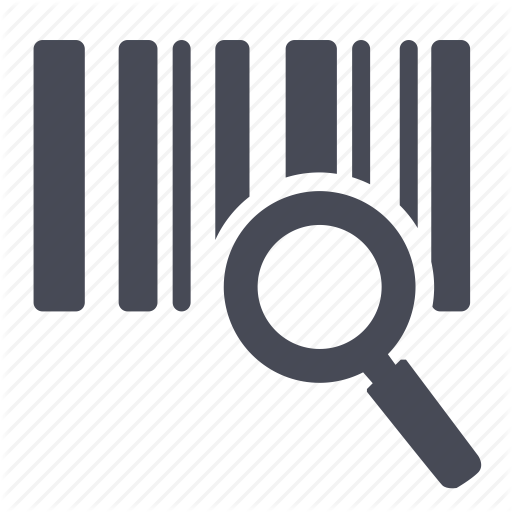
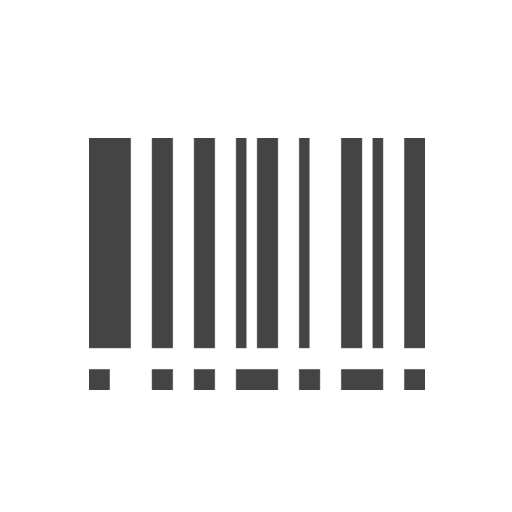
arreglos en interfaz de usuario

diff --git a/www/css/style.css b/www/css/style.css
@@ -22,13 +22,14 @@ body{
 	margin-right: 10px;
 }
 .navbar{
-	background-color: #199cc6;
-    border-color: #1eb5e6;
+	/*background-color: #199cc6;*/
+    background: linear-gradient(#003F5E,#2389BB); /* Standard syntax */
     font-size: 30px;
     line-height: 1;
     margin-top: 0px;
-    margin-bottom:20px;
+    margin-bottom:0px;
     color:white;
+    border: 0px;
 }
 .navbar-text-menu {
     margin-top: 26px!important;;
@@ -37,8 +38,8 @@ body{
 	color:white;	   
 }
 .navbar img{
-	width: 55px;
-	height: 55px;
+	width: 57px;
+	height: 57px;
 }
 
 .navbar.navbar2 img{
@@ -152,3 +153,84 @@ body{
 	float: right;
 	top: -10px;
 }
+
+/* USER PROFILE PAGE */
+ .card {
+    padding: 30px;
+    background-color: rgba(214, 224, 226, 0.2);
+    -webkit-border-top-left-radius:5px;
+    -moz-border-top-left-radius:5px;
+    border-top-left-radius:5px;
+    -webkit-border-top-right-radius:5px;
+    -moz-border-top-right-radius:5px;
+    border-top-right-radius:5px;
+    -webkit-box-sizing: border-box;
+    -moz-box-sizing: border-box;
+    box-sizing: border-box;
+}
+.card.hovercard {
+    position: relative;
+    padding-top: 0;
+    overflow: hidden;
+    text-align: center;
+    background-color: #fff;
+    background-color: rgba(255, 255, 255, 1);
+}
+.card.hovercard .card-background {
+    height: 200px;
+}
+.card-background img {
+    -webkit-filter: blur(25px);
+    -moz-filter: blur(25px);
+    -o-filter: blur(25px);
+    -ms-filter: blur(25px);
+    filter: blur(25px);
+    margin-left: -100px;
+    margin-top: -200px;
+    min-width: 130%;
+}
+.card.hovercard .useravatar {
+    position: absolute;
+    top: 25px;
+    left: 0;
+    right: 0;
+}
+.card.hovercard .useravatar img {
+    width: 150px;
+    height: 150px;
+    -webkit-border-radius: 50%;
+    -moz-border-radius: 50%;
+    border-radius: 50%;
+    border: 5px solid rgba(255, 255, 255, 0.5);
+}
+.card.hovercard .card-info {
+    position: absolute;
+    bottom: 14px;
+    left: 0;
+    right: 0;
+}
+.card.hovercard .card-info .card-title {
+    padding: 0px 5px;
+    font-size: 23px;
+    line-height: 1;
+    color: #444;
+    background-color: rgba(255, 255, 255, 0.3);
+    -webkit-border-radius: 4px;
+    -moz-border-radius: 4px;
+    border-radius: 4px;
+}
+.card.hovercard .card-info {
+    overflow: hidden;
+    font-size: 12px;
+    line-height: 20px;
+    color: #737373;
+    text-overflow: ellipsis;
+}
+.card.hovercard .bottom {
+    padding: 0 20px;
+    margin-bottom: 17px;
+}
+.btn-pref .btn {
+    -webkit-border-radius:0 !important;
+}
+

diff --git a/www/perfil.html b/www/perfil.html
@@ -16,7 +16,7 @@
     <div class="container-fluid">
       <ul class="nav navbar-nav">
       <li><a class="back-button" onClick="go_back()">
-          <span class="back-button-glyphicon glyphicon glyphicon-arrow-left aria-hidden="true"></span></a></li>
+          <span class="back-button-glyphicon glyphicon glyphicon-arrow-left" aria-hidden="true"></span></a></li>
       <li><p class="navbar-text">Mi Perfil</p></li>
       </ul>
     </div>
@@ -25,10 +25,29 @@
   <div id="alert"></div>
   
 
-  <div class="perfil-img">
-  	<img id="profilePicture" alt="..." class="img-circle">
-  	<a href="" data-toggle="modal" data-target="#foto-perfil-modal" ><span class="glyphicon glyphicon-camera aria-hidden="true"></span></a>
-  </div>
+<!-- lo nuevo -->
+<div class="card hovercard">
+        <div class="card-background">
+            <img id="profilePicture" class="card-bkimg" alt="...">
+            <!-- http://lorempixel.com/850/280/people/9/ -->
+        </div>
+        <div class="useravatar">
+            <img alt="..." id="profilePicture2">
+            <a href="" data-toggle="modal" data-target="#foto-perfil-modal" >
+    </a> 
+        </div>
+
+        <div class="card-info"> <span class="card-title">Nombre del weon</span>
+
+        </div>
+    </div>
+<!-- lo otro -->
+
+ <a href="" data-toggle="modal" data-target="#foto-perfil-modal" >
+      <span class="glyphicon glyphicon-camera" style="position: absolute;top: 215px;left: 287px;font-size: 40px;" aria-hidden="true">
+      </span>
+    </a>
+ 
 
   <!-- <div class="intolerance-wrap"> -->
 

diff --git a/www/html-injections/main-navbar.js b/www/html-injections/main-navbar.js
@@ -1,11 +1,11 @@
 $(function(){
   $("#main-navbar").html('\
     <nav class="navbar" style="margin-bottom: 0;">\
-      <div class="container-fluid">\
+      <div class="container-fluid" style="padding-left: 2px;">\
         <ul class="nav navbar-nav" style="margin: 0;">\
         <li>\
-          <a href="perfil.html"> <img id="profilePicture" alt="..." class="img-circle">\
-            <span style="font-size: 15px; position: absolute; top: 57px; left: 15px; color: white;">Mi perfil</span>\
+          <a style="padding-top: 4px;padding-bottom: 17px;" href="perfil.html"> <img id="profilePicture" alt="..." style="margin-top: 3px;" class="img-circle">\
+            <span style="font-size: 15px; position: absolute; top: 62px; left: 18px; color: white;">Mi perfil</span>\
           </a>\
         </li>\
         <li><p class="navbar-text navbar-text-menu" style="font-size: 90%">¿Puedo comerlo?</p></li>\

diff --git a/www/index.html b/www/index.html
@@ -33,10 +33,10 @@
   <div class="menu-wrapper">
     <div class="row">
       <div class="col-xs-12 ">
-        <button onClick="escanear()" type="button" class="btn btn-default btn-lg btn-block">
-            <img  src="img/barcode-search.png" alt="..." >
+        <button onClick="escanear()" type="button" style="padding: 70px 0px;" class="btn btn-default btn-lg btn-block">
+            <img  src="img/scan.png" alt="..." >
             <br>
-            <p>Aqui se deberia estar mostrando la Camara, lista para escanear</p>
+            <p>Presione aquí para escanear su producto.</p>
         </button>
       </div>
     </div>

diff --git a/www/js/vistas/perfil.js b/www/js/vistas/perfil.js
@@ -120,6 +120,7 @@ function get_my_data(){
 	$.ajax(settings).done(function (response) {
 		var foto_de_perfil = "http://"+url_server+response.user.avatar_file_name
 		$("#profilePicture").attr("src", foto_de_perfil.replace("/original/","/medium/"));
+		$("#profilePicture2").attr("src", foto_de_perfil.replace("/original/","/medium/"));
 
 		$.each(response.family, function(pos, familiar) {
 			console.log("familiar:", familiar.name);

diff --git a/www/js/config.js b/www/js/config.js
@@ -1,4 +1,4 @@
-var all_servers = ["192.168.43.206:3000","10.6.43.67:3000","localhost:3000"];
+var all_servers = ["localhost:3000","192.168.43.206:3000","10.6.43.67:3000"];
 
 var url_server = ""
 var settings = {}
